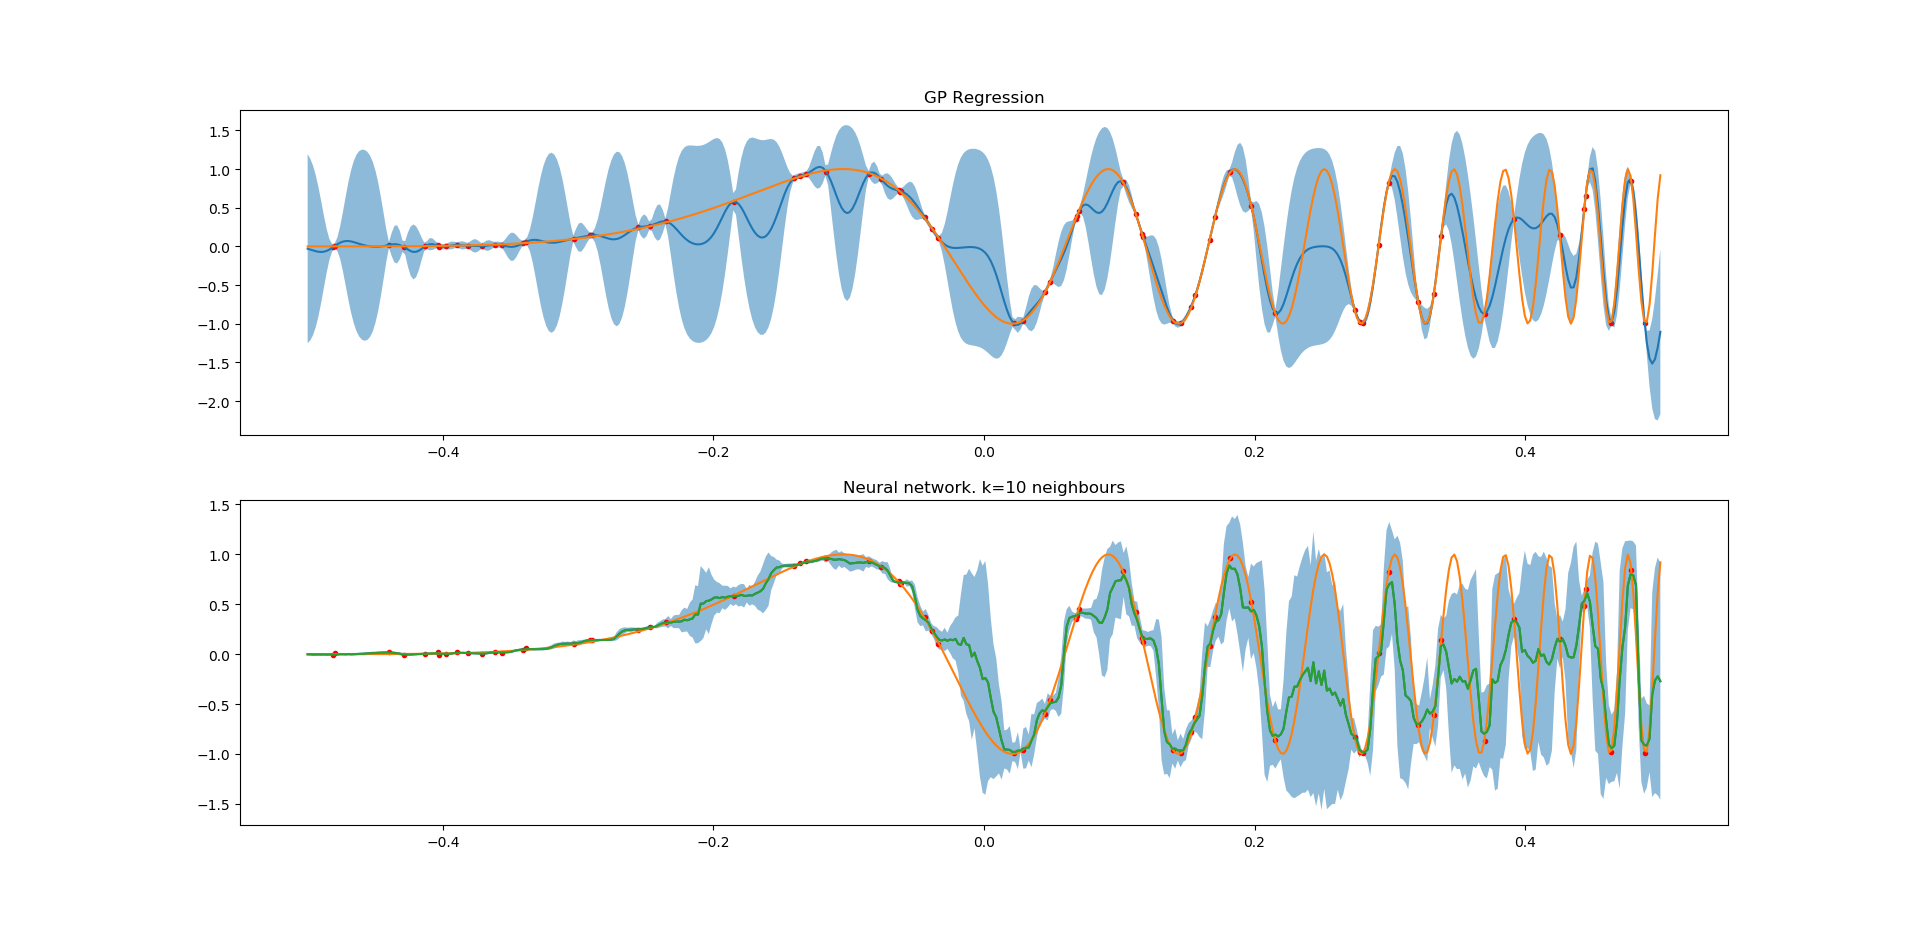
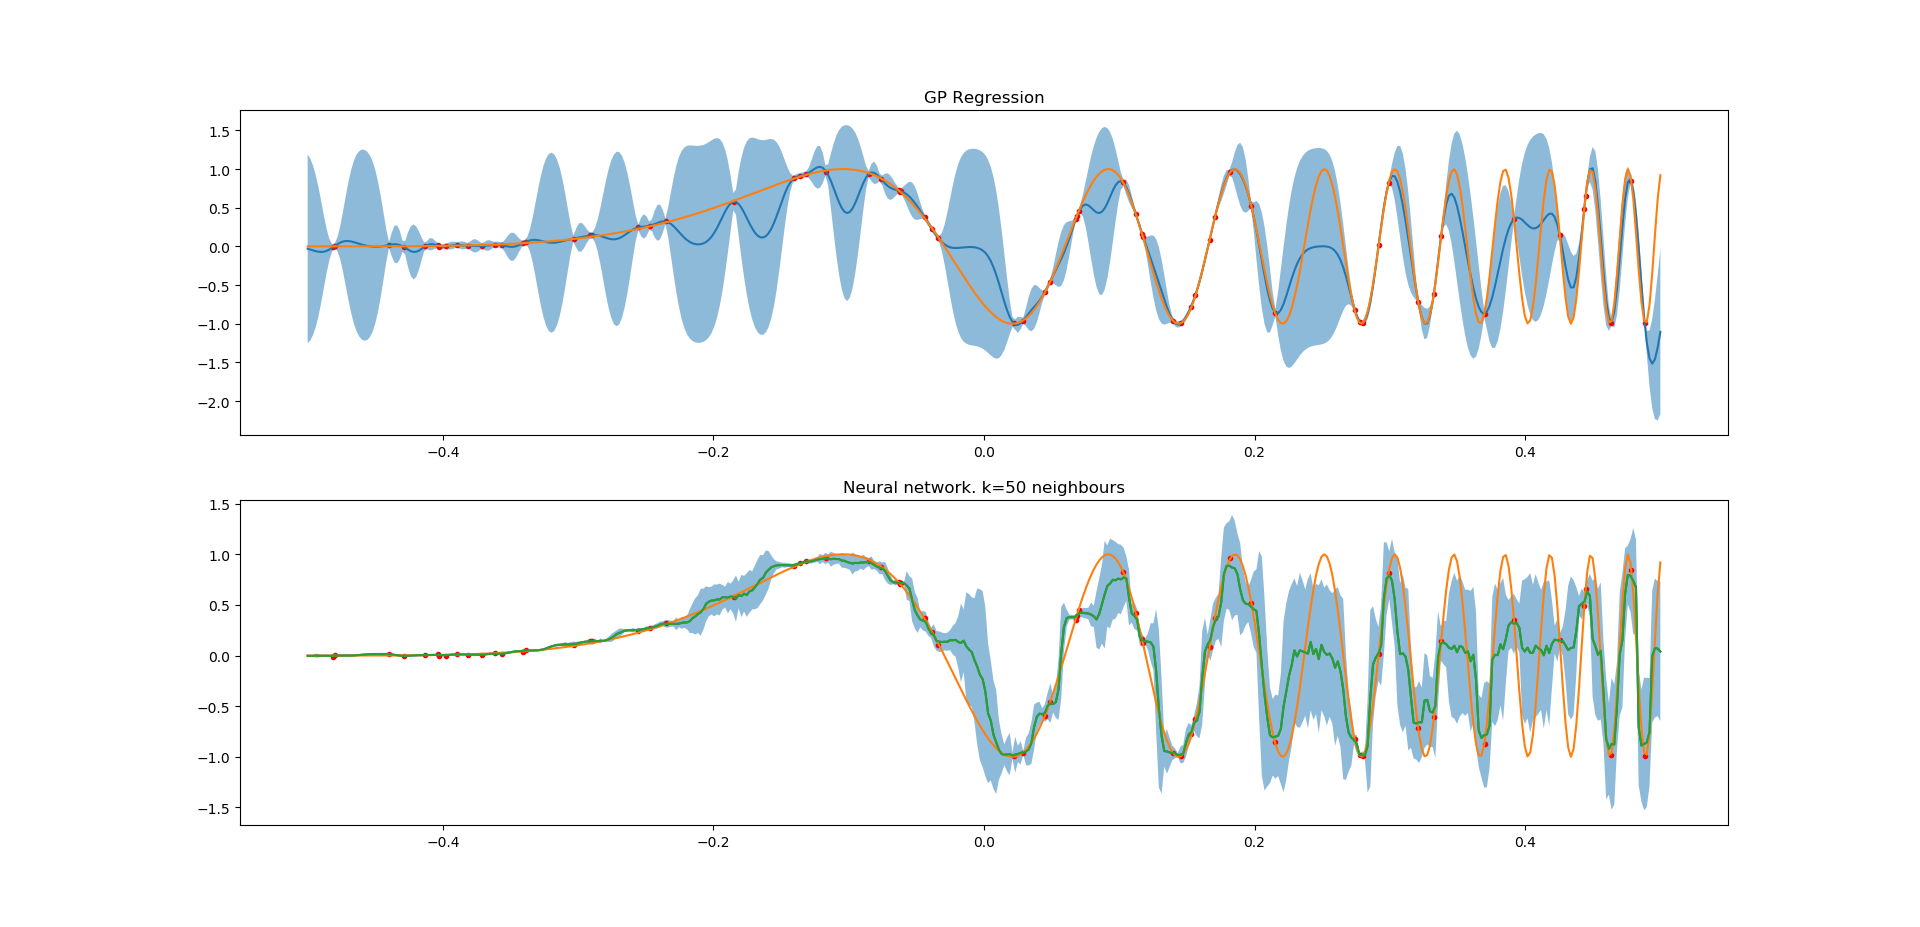
Fixed example

diff --git a/example_2.py b/example_2.py
@@ -25,8 +25,8 @@ Xp=np.linspace(-0.5,0.5,500).reshape(-1,1)
 yp_gp,gp_std=gp.predict(Xp,return_std=True)
 
 
-nn=10
-cc=CCNet(nn,do_rate=0.15,id_dropout=0.1)
+nn=50
+cc=CCNet(nn,do_rate=0.1,id_dropout=0.02)
 cc.fit(X,Y,epochs=n_epochs,batch_size=batch_size,verbose=True)
 Yp2=cc.predict(Xp)
 ypx,_=cc.stochastic_predict(X,100)#predict(X)
